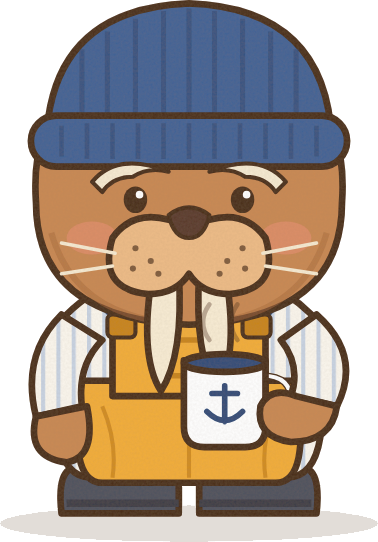
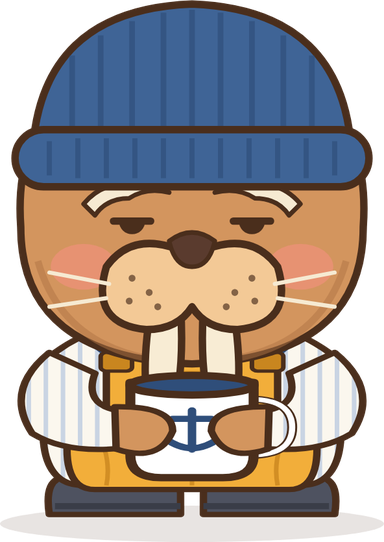
Use Boone's new look (bigger eyes, rounder body) on every page
Claude-Session: https://claude.ai/code/session_01DcAsRdVhoUAcaA1hRJqdpX

diff --git a/index.html b/index.html
@@ -19,7 +19,7 @@
 <link rel="icon" href="favicon.png">
 <link rel="preload" href="fonts/7b114e24f7.woff2" as="font" type="font/woff2" crossorigin>
 <link rel="stylesheet" href="fonts.css?v=1791385613">
-<link rel="stylesheet" href="site.css?v=1791424050">
+<link rel="stylesheet" href="site.css?v=1791469369">
 <script type="application/ld+json">
 [
  {
@@ -178,7 +178,7 @@
 <section data-e="e55" data-c="e55" class="crew" id="crew">
   <div data-e="e56" data-c="e56" class="paper">
     <span data-e="e57" class="tape"></span>
-    <img data-e="e58" class="crew-boone" src="img/boone-mug.webp" alt="" width="189" height="271" loading="lazy">
+    <img data-e="e58" class="crew-boone" src="img/boone-mug.webp" alt="" width="192" height="271" loading="lazy">
     <h2 data-e="e59">Boone needs a crew.</h2>
     <div data-e="e60" data-c="e60" id="android-ask">
       <ul data-e="e61" class="chips crew-facts"><li><svg class="ico" viewBox="0 0 24 24" aria-hidden="true"><path d="M5 12l5 5L20 7"/></svg>Android</li><li><svg class="ico" viewBox="0 0 24 24" aria-hidden="true"><path d="M5 12l5 5L20 7"/></svg>10 min a day</li><li><svg class="ico" viewBox="0 0 24 24" aria-hidden="true"><path d="M5 12l5 5L20 7"/></svg>2 weeks</li><li><svg class="ico" viewBox="0 0 24 24" aria-hidden="true"><path d="M5 12l5 5L20 7"/></svg>Free</li><li><svg class="ico" viewBox="0 0 24 24" aria-hidden="true"><path d="M5 12l5 5L20 7"/></svg>18+ in the US</li></ul>
@@ -215,7 +215,7 @@
   <p data-e="e86" class="fine marks">iPhone is a trademark of Apple Inc. Android is a trademark of Google LLC. The Android robot is reproduced or modified from work created and shared by Google and used according to terms described in the Creative Commons 3.0 Attribution License.</p>
 </footer>
 
-<script data-e="e80" src="site.js?v=1791424050"></script>
+<script data-e="e80" src="site.js?v=1791469369"></script>
 <script data-goatcounter="https://boone.goatcounter.com/count" async src="//gc.zgo.at/count.js"></script>
 </body>
 </html>

diff --git a/404.html b/404.html
@@ -18,7 +18,7 @@
 <main class="test">
   <div class="paper ask thanks lost">
     <span class="tape"></span>
-    <img class="lost-boone" src="/img/boone-mug.webp" alt="" width="132" height="189">
+    <img class="lost-boone" src="/img/boone-mug.webp" alt="" width="134" height="189">
     <h1>Nothing on this part of the dock.</h1>
     <p>Boone looked. This page isn't here.</p>
     <a class="btn" href="/">Go to the home page</a>
